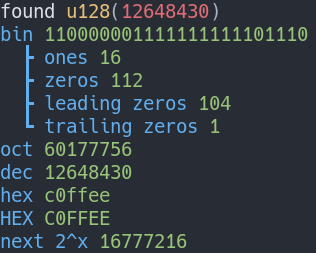
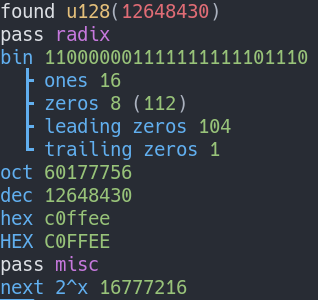
v0.2.0

diff --git a/src/lib.rs b/src/lib.rs
@@ -18,15 +18,17 @@
 //! ```console
 //! $ b0x 0xC0FFEE
 //! found u128(12648430)
+//! pass radix
 //! bin 110000001111111111101110
 //!   ├ ones 16
-//!   ├ zeros 112
+//!   ├ zeros 8 (112)
 //!   ├ leading zeros 104
 //!   └ trailing zeros 1
 //! oct 60177756
 //! dec 12648430
 //! hex c0ffee
 //! HEX C0FFEE
+//! pass misc
 //! next 2^x 16777216
 //! ```
 //!
@@ -34,6 +36,7 @@
 //!
 //! ```console
 //! $ b0x "StRiNg"
+//! pass info
 //! found string(StRiNg)
 //! len 6
 //! bytes [83, 116, 82, 105, 78, 103]
@@ -45,17 +48,18 @@
 extern crate colored;
 
 mod color;
+pub mod pass;
+pub mod config;
 
-pub mod integer;
-pub mod string;
+use config::Config;
 
 /// Try to parse a number which has a prefix which determines the radix,
 /// and print information if successful.
-fn try_prefix(input: &str, prefix: &str, radix: u32) -> bool {
+fn try_prefix(input: &str, prefix: &str, radix: u32, config: &Config) -> bool {
     if input.starts_with(prefix) {
         let clean_input = input.replacen(prefix, "", 1);
         if let Ok(integer) = u128::from_str_radix(&clean_input, radix) {
-            integer::main(integer);
+            pass::integer::run(integer, config);
             return true;
         }
     }
@@ -63,17 +67,18 @@ fn try_prefix(input: &str, prefix: &str, radix: u32) -> bool {
     false
 }
 
-/// Given an input `&str`, try to parse it as a number and print information.
-/// If the input can't be parsed as a `u128`, fall back to string.
-pub fn run(input: &str) {
+/// Given a `Config`, try to parse it as a number and print information.
+/// If the input can't be parsed as a `u128`, fall back to String.
+pub fn run(config: Config) {
+    let input = config.input();
     let input_trim = input.trim();
 
-    if !try_prefix(input_trim, "0b", 2) {
-        if !try_prefix(input_trim, "0o", 8) {
-            if !try_prefix(input_trim, "0x", 16) {
+    if !try_prefix(input_trim, "0b", 2, &config) {
+        if !try_prefix(input_trim, "0o", 8, &config) {
+            if !try_prefix(input_trim, "0x", 16, &config) {
                 match input_trim.parse::<u128>() {
-                    Ok(v) => integer::main(v),
-                    Err(_) => string::main(input),
+                    Ok(v) => pass::integer::run(v, &config),
+                    Err(_) => pass::string::run(input, &config),
                 }
             }
         }

diff --git a/src/pass/mod.rs b/src/pass/mod.rs
@@ -1,0 +1,82 @@
+//! Defines passes
+
+use super::colored::*;
+use config::Config;
+
+/// A pass
+struct Pass<T> {
+    exec: Box<Fn(&T)>,
+    name: String,
+}
+
+impl<T> Pass<T> {
+    /// Creates a new pass
+    pub fn new(exec: Box<Fn(&T)>, name: &str) -> Self {
+        Self {
+            exec,
+            name: String::from(name),
+        }
+    }
+
+    /// Runs the pass
+    pub fn run(&self, input: &T) {
+        (*self.exec)(input);
+    }
+}
+
+/// Sequence of passes
+struct PassSequence<'a, T> {
+    passes: Vec<Pass<T>>,
+    config: &'a Config,
+}
+
+impl<'a, T> PassSequence<'a, T> {
+    /// Create a new sequence of passes
+    pub fn new(config: &'a Config) -> Self {
+        Self {
+            passes: Vec::new(),
+            config,
+        }
+    }
+
+    /// Add a pass to the sequence
+    pub fn add_pass(&mut self, pass: Pass<T>) {
+        self.passes.push(pass);
+    }
+
+    /// Run passes in the sequence which are not ignored
+    pub fn run(&self, input: &T) {
+        for pass in self.passes.iter() {
+            if !self.config.is_ignored(&pass.name) {
+                println!("{} {}", "pass".white().bold(), &pass.name.magenta().bold());
+
+                pass.run(input);
+            } else {
+                println!("{} {} {}", "pass".white().bold(), &pass.name.magenta().bold(), "ignored".white().bold());
+            }
+        }
+    }
+}
+
+macro_rules! pass_sequence {
+    ($input:expr, $config:expr; $( $pass:expr ),*) => {
+        let mut seq = PassSequence::new($config);
+
+        $( seq.add_pass(Pass::new(Box::new($pass), stringify!($pass))); )*
+
+        seq.run($input);
+    };
+}
+
+macro_rules! info {
+    ($name:expr, $value:expr) => {
+        println!(
+            "{} {}",
+            $name.to_string().blue().bold(),
+            $value.to_string().green().bold()
+        )
+    };
+}
+
+pub mod integer;
+pub mod string;

diff --git a/src/pass/integer.rs b/src/pass/integer.rs
@@ -1,0 +1,53 @@
+//! Deals with unsigned integers (`u128`)
+
+use super::{Pass, PassSequence};
+use color;
+use colored::*;
+use config::Config;
+
+/// Run all passes with this `u128`.
+pub fn run(integer: u128, config: &Config) {
+    color::found(&integer.to_string(), "u128");
+    pass_sequence!(&integer, config; radix, misc);
+}
+
+/// Print this `u128` in different radixes.
+fn radix(integer: &u128) {
+    let bin = format!("{:b}", integer);
+    let oct = format!("{:o}", integer);
+    let dec = integer;
+    let hex = format!("{:x}", integer);
+    let hex_upper = format!("{:X}", integer);
+
+    let ones = integer.count_ones();
+    let zeros = integer.count_zeros();
+    let leading_zeros = integer.leading_zeros();
+    let trailing_zeros = integer.trailing_zeros();
+
+    info!("bin", bin);
+    info!("  ├ ones", ones);
+
+    println!(
+        "{} {} ({})",
+        "  ├ zeros".blue().bold(),
+        (zeros - leading_zeros).to_string().green().bold(),
+        zeros.to_string().green().bold()
+    );
+
+    info!("  ├ leading zeros", leading_zeros);
+    info!("  └ trailing zeros", trailing_zeros);
+    info!("oct", oct);
+    info!("dec", dec);
+    info!("hex", hex);
+    info!("HEX", hex_upper);
+}
+
+/// Print misc information about this `u128`.
+fn misc(integer: &u128) {
+    let next = match integer.checked_next_power_of_two() {
+        Some(v) => v.to_string().green().bold(),
+        None => String::from("n/a").cyan().bold(),
+    };
+
+    println!("{} {}", "next 2^x".blue().bold(), next);
+}

diff --git a/src/bin/main.rs b/src/bin/main.rs
@@ -2,6 +2,7 @@
 extern crate clap;
 extern crate b0x;
 
+use b0x::config::Config;
 use clap::{App, Arg};
 
 fn main() {
@@ -11,13 +12,34 @@ fn main() {
         .about(crate_description!())
         .arg(
             Arg::with_name("input")
-                .help("Input data")
+                .help("Input data. Supported formats:
+⋅ String
+⋅ Integer
+    ⋅ Decimal:     42
+    ⋅ Binary:      0b101010
+    ⋅ Octal:       0o52
+    ⋅ Hexadecimal: 0x2A")
                 .required(true)
                 .index(1),
+        )
+        .arg(
+            Arg::with_name("ignored-passes")
+                .help("Ignore pass(-es)")
+                .short("p")
+                .long("ignore")
+                .multiple(true)
+                .takes_value(true)
+                .possible_values(&["radix", "misc", "info"])
+                .use_delimiter(true),
         )
         .get_matches();
 
     let input = matches.value_of("input").unwrap();
+    let ignored_passes = match matches.values_of("ignored-passes") {
+        Some(v) => v.map(|e| String::from(e)).collect(),
+        None => Vec::new(),
+    };
 
-    b0x::run(input);
+    let config = Config::new(String::from(input), ignored_passes);
+    b0x::run(config);
 }

diff --git a/src/pass/string.rs b/src/pass/string.rs
@@ -1,0 +1,27 @@
+//! Deals with strings (`String`)
+
+use super::{Pass, PassSequence};
+use color;
+use colored::*;
+use config::Config;
+
+/// Run all passes with this `String`.
+pub fn run(string: &String, config: &Config) {
+    color::found(string, "string");
+    pass_sequence!(string, config; info);
+}
+
+/// Print info about this `String`.
+fn info(string: &String) {
+    let len = string.len();
+    let bytes = format!("{:?}", string.as_bytes());
+    let is_ascii = string.is_ascii();
+    let upper = string.to_uppercase();
+    let lower = string.to_lowercase();
+
+    info!("len", len);
+    info!("bytes", bytes);
+    info!("ascii?", is_ascii);
+    info!("upper", upper);
+    info!("lower", lower);
+}

diff --git a/src/config.rs b/src/config.rs
@@ -1,0 +1,27 @@
+//! Contains utilities for storing configuration
+
+/// Stores configuration
+pub struct Config {
+    input: String,
+    ignored_passes: Vec<String>,
+}
+
+impl Config {
+    /// Creates a new configuration
+    pub fn new(input: String, ignored_passes: Vec<String>) -> Self {
+        Self {
+            input,
+            ignored_passes,
+        }
+    }
+
+    /// Returns `true` if the pass is ignored in this `Config`
+    pub fn is_ignored(&self, pass: &str) -> bool {
+        self.ignored_passes.contains(&String::from(pass))
+    }
+
+    /// Returns `the input stored in this `Config`
+    pub fn input(&self) -> &String {
+        &self.input
+    }
+}

diff --git a/src/color.rs b/src/color.rs
@@ -1,15 +1,6 @@
 use super::colored::*;
 
-/// Print `a` in bold blue, and `b` in bold green
-pub fn print(a: &str, b: &str) {
-    let a = a.blue().bold();
-    let b = b.green().bold();
-
-    println!("{} {}", a, b);
-}
-
-/// Print `"found"` in bold white, `data` in bold red, and `ty` in bold yellow according to this format:
-/// `found ty(data)`
+/// Print which type is recognized
 pub fn found(data: &str, ty: &str) {
     let data = data.red().bold();
     let ty = ty.yellow().bold();

diff --git a/CHANGELOG.md b/CHANGELOG.md
@@ -3,9 +3,28 @@ All notable changes to this project will be documented in this file.
 The format is based on [Keep a Changelog](http://keepachangelog.com/en/1.0.0/)
 and this project adheres to [Semantic Versioning](http://semver.org/spec/v2.0.0.html).
 
+## [0.2.0] - 2018-08-31
+### Added
+- Now `bin -> zeros` displays how many zeros are actually visible, in addition to total count.
+- Ability to ignore specified passes. For example:
+  ```console
+  $ b0x 0xC0FFEE --ignore misc
+  ```
+  
+  See
+
+  ```console
+  $ b0x --help
+  ```
+  
+  for more information.
+
+### Changed
+- Output separated by passes.
+
 ## [0.1.1] - 2018-08-30
 ### Changed
-- Absolute image links in README.md
+- Absolute image links in README.md.
 
 ## [0.1.0] - 2018-08-30
 ### First release

diff --git a/README.md b/README.md
@@ -12,7 +12,7 @@ $ cargo install b0x
 ```
 
 ### Usage
-##### Numbers
+#### Numbers
 Supported formats:
 - Decimal: `42`
 - Binary: `0b101010`
@@ -25,10 +25,10 @@ $ b0x 0xC0FFEE
 
 ![screenshot][demo-0xC0FFEE]
 
-##### Strings
+#### Strings
 
 ```console
-$ b0x "StRiNg"
+$ b0x "TeSt StRiNg"
 ```
 
 ![screenshot][demo-string]
